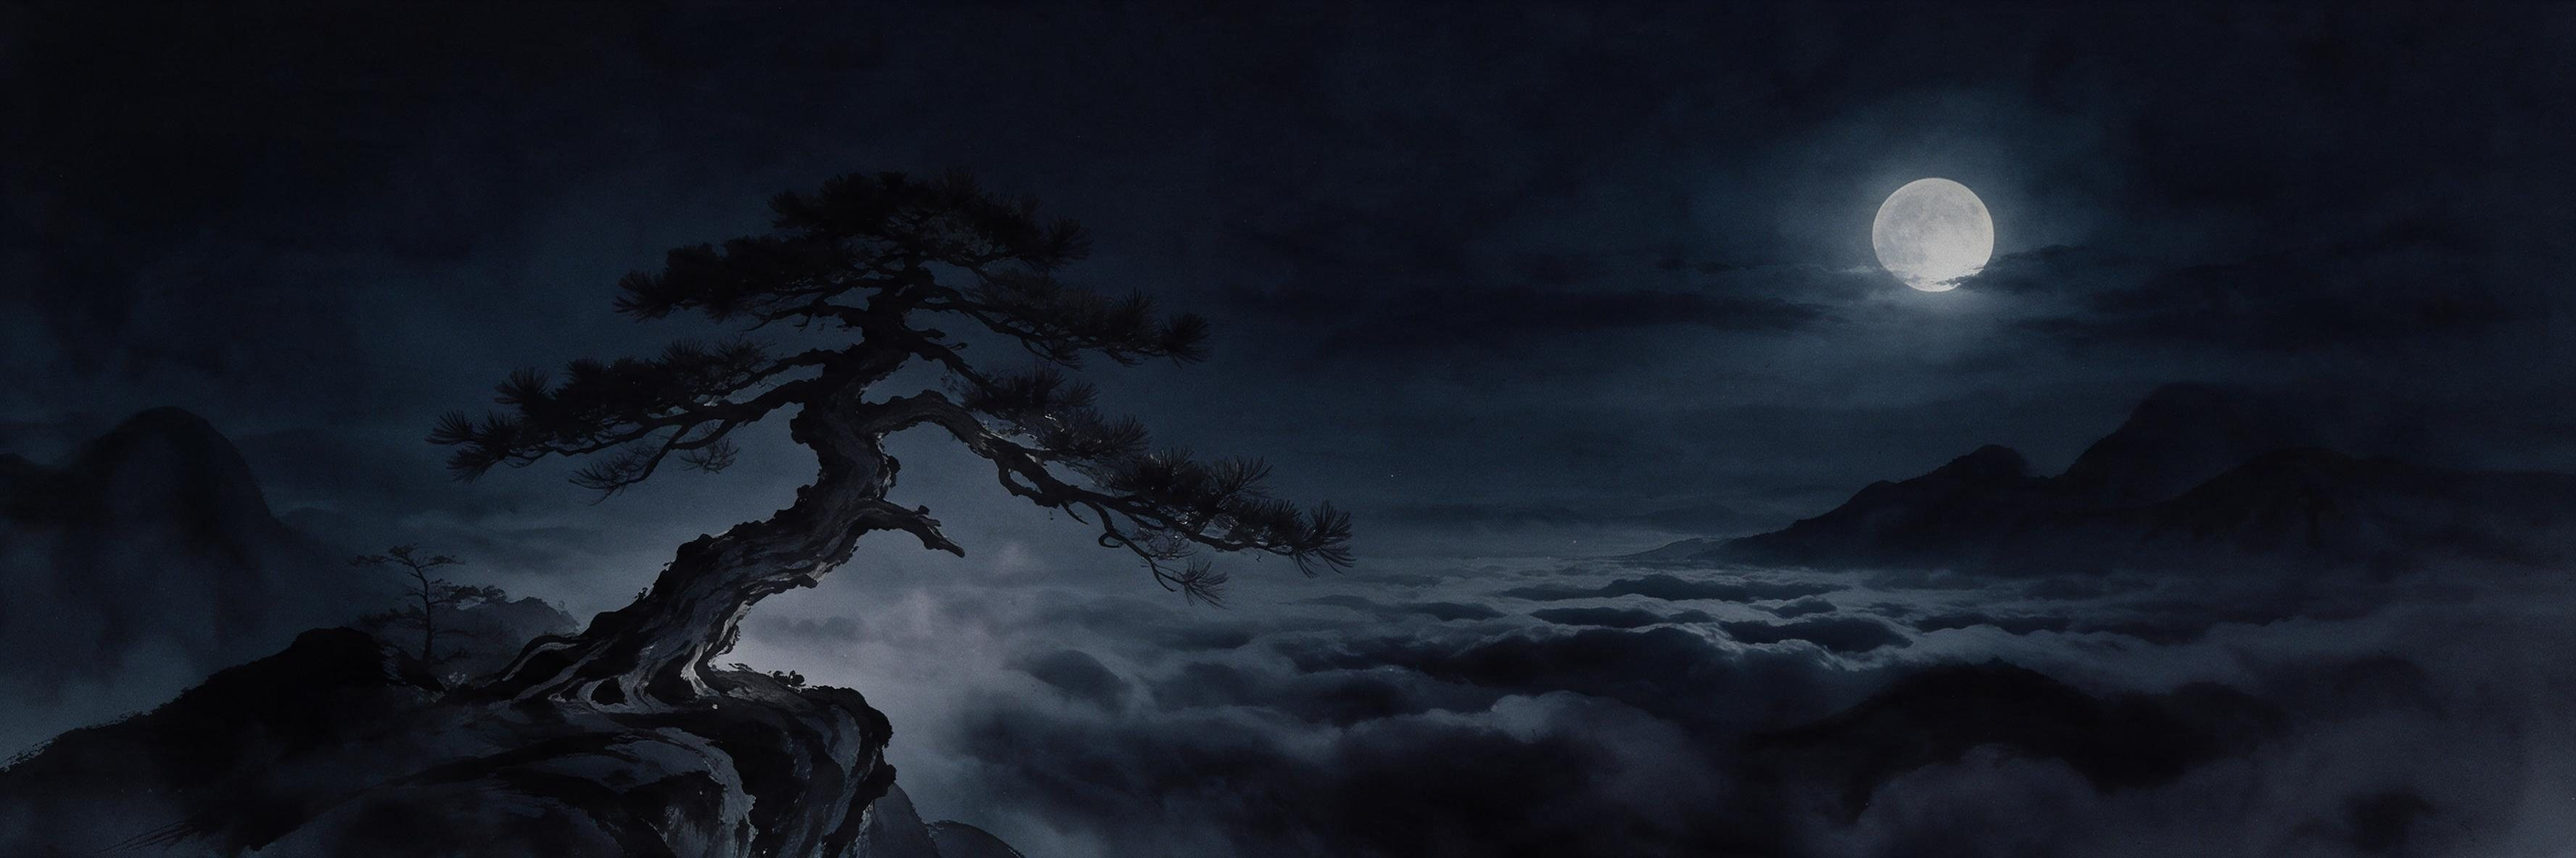
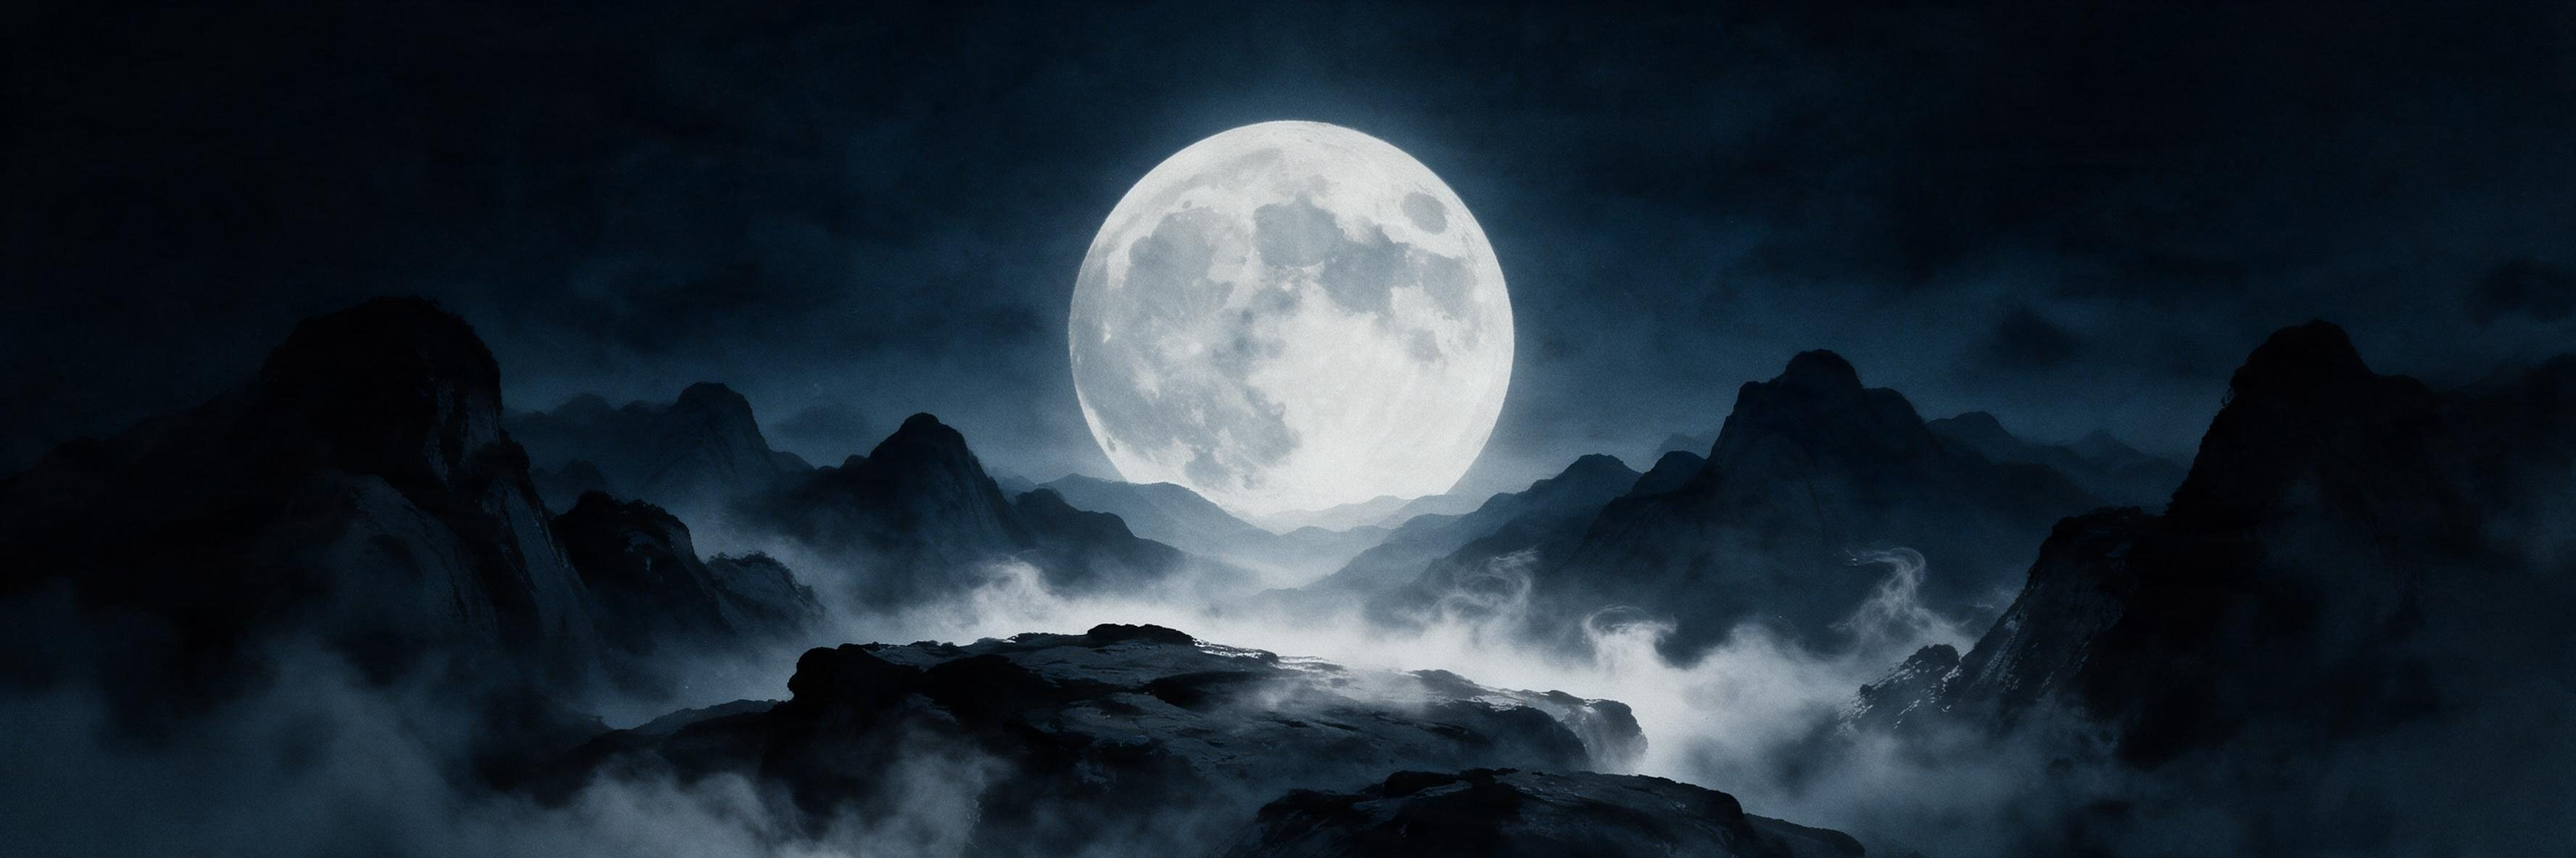
docs(ui): 原型书册藏经、武学类别图标、修炼月夜底图与破境卡

diff --git a/docs/design/ui-overhaul-prototype.html b/docs/design/ui-overhaul-prototype.html
@@ -740,19 +740,19 @@ button { font: inherit; color: inherit; }
 .wform .fx::before { content: '◈ '; font-size: 10px; }
 .wform.locked .fx { color: oklch(0.55 0.05 215); }
 .wform { grid-template-columns: 200px minmax(0, 1fr) 64px; }
-/* 藏经：AI 卷轴图陈列（黑底已处理成透明），按品质换卷 */
-.scrolls { display: grid; grid-template-columns: repeat(auto-fill, minmax(230px, 1fr)); gap: 6px 18px; margin-bottom: 18px; }
-.scroll-i { position: relative; border: 0; cursor: pointer; aspect-ratio: 4 / 1; padding: 0; background: url('../../code/public/art/scroll-q1.png') center / contain no-repeat;
-  display: grid; place-items: center; font-family: var(--serif); font-size: 17px; letter-spacing: 0.25em; color: oklch(0.25 0.02 60);
-  filter: brightness(0.82); transition: transform .25s var(--ease), filter .25s; }
-.scroll-i.q2 { background-image: url('../../code/public/art/scroll-q2.png'); color: oklch(0.22 0.03 220); }
-.scroll-i.q3 { background-image: url('../../code/public/art/scroll-q3.png'); color: oklch(0.2 0.03 60); }
-.scroll-i small { position: absolute; top: 100%; margin-top: 2px; font-family: var(--body, var(--sans)); font-size: 11px; letter-spacing: 0.1em; color: var(--faint); }
-.scroll-i .t { transform: translateY(-1px); }
-.scrolls { row-gap: 26px; }
-.scroll-i:hover { filter: brightness(0.95); transform: translateY(-2px); }
-.scroll-i[aria-current="true"] { filter: brightness(1.05) drop-shadow(0 0 10px oklch(0.78 0.13 78 / 0.35)); transform: translateY(-3px); }
-.scroll-i .on { position: absolute; top: 12%; right: 16%; font-size: 10.5px; letter-spacing: 0; padding: 1px 5px; border-radius: 3px; background: oklch(0.45 0.14 30); color: oklch(0.95 0.02 80); font-family: var(--body, var(--sans)); }
+/* 藏经：AI 线装书册封面陈列（黑底已处理成透明），书名竖写在题签上；按品质换封面 */
+.scrolls { display: flex; flex-wrap: wrap; gap: 26px 22px; margin-bottom: 22px; padding: 6px 4px 0; }
+.scroll-i { position: relative; width: 112px; aspect-ratio: 0.65; border: 0; padding: 0; cursor: pointer;
+  background: url('../../code/public/art/book-q1.png') center / 100% 100% no-repeat; filter: brightness(0.85) drop-shadow(0 8px 14px oklch(0.05 0.01 262 / 0.6));
+  transition: transform .25s var(--ease), filter .25s; }
+.scroll-i.q2 { background-image: url('../../code/public/art/book-q2.png'); }
+.scroll-i.q3 { background-image: url('../../code/public/art/book-q3.png'); }
+.scroll-i .t { position: absolute; left: 21%; top: 16%; width: 15%; height: 44%; display: grid; place-items: center;
+  writing-mode: vertical-rl; font-family: var(--serif); font-size: 13.5px; letter-spacing: 0.15em; color: oklch(0.2 0.02 60); white-space: nowrap; }
+.scroll-i small { position: absolute; top: 100%; left: 0; right: 0; margin-top: 6px; text-align: center; font-size: 11px; letter-spacing: 0.1em; color: var(--faint); }
+.scroll-i:hover { transform: translateY(-3px); filter: brightness(0.95) drop-shadow(0 10px 16px oklch(0.05 0.01 262 / 0.6)); }
+.scroll-i[aria-current="true"] { transform: translateY(-6px); filter: brightness(1.05) drop-shadow(0 0 12px oklch(0.78 0.13 78 / 0.45)); }
+.scroll-i .on { position: absolute; top: -8px; right: -6px; font-size: 10.5px; padding: 1px 5px; border-radius: 3px; background: oklch(0.45 0.14 30); color: oklch(0.95 0.02 80); }
 .ngd-meta { display: flex; gap: 18px; flex-wrap: wrap; color: var(--faint); font-size: 12.5px; margin: -4px 0 12px; }
 .ngd-meta b { color: var(--ink); font-weight: 600; }
 /* 战报：回合抬头 + 成段叙述 */
@@ -774,6 +774,19 @@ button { font: inherit; color: inherit; }
 .settings .st-opts button i { width: 18px; height: 18px; border-radius: 5px; flex: none; }
 .settings .st-opts button[aria-pressed="true"] { background: oklch(0.78 0.13 78 / 0.1); color: var(--ink); box-shadow: inset 0 0 0 1px oklch(0.78 0.13 78 / 0.45); }
 .settings .st-note { font-size: 12px; color: var(--faint); }
+
+/* 破境卡：条件竖排、按钮占满 */
+.break-card .cond { display: grid; gap: 8px; justify-content: stretch; }
+.break-card .cond span { justify-content: flex-start; }
+.break-card .cond b { margin-left: auto; }
+.break-card .acu-ledger { justify-content: space-between; margin: 14px 0 16px; padding-top: 12px; border-top: 1px solid var(--hair); }
+.break-card .break-btn { width: 100%; }
+.cult aside .card + .card { margin-top: 14px; }
+/* 武学类别图标：AI 简笔图做遮罩，颜色跟随文字 */
+.cat-ico { display: inline-block; width: 1.15em; height: 1.15em; vertical-align: -0.2em; background: currentColor;
+  -webkit-mask: var(--ico) center / contain no-repeat; mask: var(--ico) center / contain no-repeat; }
+.cats .cat-ico { margin-right: 4px; }
+.book .bi { width: 22px; height: 22px; color: oklch(0.85 0.03 85 / 0.8); }
 
 /* ═══════ 手机宽度 ═══════ */
 .mob-top, .tabbar { display: none; }
@@ -916,11 +929,10 @@ button { font: inherit; color: inherit; }
     <div class="stage">
       <!-- ─────────── 修炼 ─────────── -->
       <section class="page on" id="p-cultivate">
-        <div class="page-art" style="--art:url('../../code/public/art/cultivate.jpg')"></div>
+        <div class="page-art js-cult-art" style="--art:url('../../code/public/art/cultivate.jpg'); background-size: auto 100%"></div>
         <header class="page-head">
           <div>
             <h1>运转周天</h1>
-            <div class="sub">初窥门径 → <b>小有所成</b></div>
           </div>
         </header>
 
@@ -953,13 +965,6 @@ button { font: inherit; color: inherit; }
             <div class="incense" data-tip-html="本段 <b>1,034,800</b> / 1,668,000 内力<br><span class='l'>三段周天逐段翻倍，突破共需 2,780,000</span>">
               <div class="ash js-ash"></div><div class="stick js-stick"></div><span class="tick" style="left:33.33%"></span><span class="tick" style="left:66.67%"></span><div class="smoke js-smoke"></div><div class="ember js-ember"></div>
             </div>
-
-            <div class="acu-ledger">
-              <span>窍穴<b>1/4</b></span><span>经脉<b>0/2</b></span><span>修炼加成<b class="gold">+4%</b></span>
-            </div>
-
-            <div class="cond js-cond"></div>
-            <button class="break-btn js-break" disabled>周天运转中 · 约 21 分钟后可突破</button>
           </div>
 
           <aside class="a-only">
@@ -968,7 +973,16 @@ button { font: inherit; color: inherit; }
               <div class="js-attrs"></div>
               <div class="attr-foot">内功 惊雷诀 · 第 3 重 · <a href="#" data-go="neigong">详情</a></div>
             </div>
-            <!-- 有伤才出现，排在身手下方，身手位置不随伤势变化 -->
+            <!-- 破境：突破条件、窍穴经脉与突破按钮，填满身手下方 -->
+            <div class="card break-card">
+              <div class="head"><span class="serif">破境</span><small>初窥门径 → 小有所成</small></div>
+              <div class="cond js-cond"></div>
+              <div class="acu-ledger">
+                <span>窍穴<b>1/4</b></span><span>经脉<b>0/2</b></span><span>修炼加成<b class="gold">+4%</b></span>
+              </div>
+              <button class="break-btn js-break" disabled>周天运转中 · 约 21 分钟后可突破</button>
+            </div>
+            <!-- 有伤才出现，排在最下方，身手与破境都不移位 -->
             <div class="card wounds js-wounds" hidden></div>
           </aside>
         </div>
@@ -1121,7 +1135,7 @@ button { font: inherit; color: inherit; }
               <div class="head"><span class="serif">贡献商店</span><small>持有 <b class="gold">320</b> 贡献</small></div>
               <div class="rows">
                 <div class="row-i"><div class="t"><span class="serif">苍崖剑诀</span><span class="qtag q3">绝学</span></div><div class="d">剑法 · 本门练得快两成</div><div class="a"><span class="buy"><button class="btn2" disabled>450 贡献</button><small>还差 130</small></span></div></div>
-                <div class="row-i"><div class="t"><span class="serif">云台心法</span><span class="qtag q3">绝学内功</span></div><div class="d">五级台阶</div><div class="a"><span class="buy"><button class="btn2" disabled>600 贡献</button><small>还差 280</small></span></div></div>
+                <div class="row-i"><div class="t"><span class="serif">云台心法</span><span class="qtag q3">绝学内功</span></div><div class="d">最高可至归真</div><div class="a"><span class="buy"><button class="btn2" disabled>600 贡献</button><small>还差 280</small></span></div></div>
                 <div class="row-i lock"><div class="t"><span class="serif">落星剑</span><span class="qtag q3">绝学 · 独门</span></div><div class="d">蓄势，越打越快</div><div class="a"><span class="price">境界 4 可换</span></div></div>
                 <div class="row-i"><div class="t"><span class="serif">招式秘籍 · 苍崖剑诀第四式</span></div><div class="d">领悟第四式所需</div><div class="a"><span class="buy"><button class="btn2">300 贡献</button></span></div></div>
               </div>
@@ -1155,7 +1169,7 @@ button { font: inherit; color: inherit; }
           <div class="rows">
             <div class="row-i"><div class="t"><span class="serif">行者棍</span><span class="qtag q1">寻常</span></div><div class="d">棍法 · 特效回气</div><div class="a"><span class="buy"><button class="btn2">1,800 两</button></span></div></div>
             <div class="row-i"><div class="t"><span class="serif">招式秘籍 · 流云剑第三式</span></div><div class="d">领悟第三式所需</div><div class="a"><span class="buy"><button class="btn2" disabled>4,500 两</button><small>还差 1,080</small></span></div></div>
-            <div class="row-i lock"><div class="t"><span class="serif">雷鸣剑经</span><span class="qtag q2">上乘内功</span></div><div class="d">惊雷一路 · 四级台阶</div><div class="a"><span class="price">境界 3 上架</span></div></div>
+            <div class="row-i lock"><div class="t"><span class="serif">雷鸣剑经</span><span class="qtag q2">上乘内功</span></div><div class="d">惊雷一路 · 最高可至化境</div><div class="a"><span class="price">境界 3 上架</span></div></div>
             <div class="row-i done"><div class="t"><span class="serif">流云剑</span><span class="qtag q1">寻常</span></div><div class="d">剑法 · 特效必暴</div><div class="a"><span class="price">已有</span></div></div>
           </div>
         </div>
@@ -1611,6 +1625,8 @@ const FX = {
   duanshui: ['为对方附毒 1 层', '', '', '', '附毒 3 层'],
   xiuli: ['为对方附毒 1 层', '', '附毒 2 层'],
 };
+const ICO = { 剑法: 'jian', 刀法: 'dao', 拳掌: 'quan', 暗器: 'anqi', 棍法: 'gun' };
+const ico = c => ICO[c] ? `<i class="cat-ico" style="--ico:url('../../code/public/art/icon-${ICO[c]}.png')"></i>` : '';
 const QP = { 1: { q: '寻常', cost: 25, cd: 2, m0: 130, th: [4, 10, 25] }, 2: { q: '上乘', cost: 40, cd: 3, m0: 150, th: [5, 12, 28] }, 3: { q: '绝学', cost: 55, cd: 4, m0: 145, th: [6, 15, 32] } };
 const TIER4 = ['生疏', '熟练', '精通', '圆满'];
 const wx = { equipped: ['liuyun'], cur: 'liuyun', cat: '全部', slots: 2 };
@@ -1625,15 +1641,15 @@ function renderSlots() {
 }
 function renderShelf() {
   const cats = ['全部', ...new Set(Object.values(WX).map(d => d.cat))];
-  $('.js-cats').innerHTML = cats.map(c => `<button data-cat="${c}" aria-pressed="${c === wx.cat}">${c}<small>${c === '全部' ? Object.keys(WX).length : Object.values(WX).filter(d => d.cat === c).length}</small></button>`).join('');
+  $('.js-cats').innerHTML = cats.map(c => `<button data-cat="${c}" aria-pressed="${c === wx.cat}">${ico(c)}${c}<small>${c === '全部' ? Object.keys(WX).length : Object.values(WX).filter(d => d.cat === c).length}</small></button>`).join('');
   $('.js-shelf').innerHTML = Object.entries(WX).filter(([, d]) => wx.cat === '全部' || d.cat === wx.cat).sort((a, b) => b[1].q - a[1].q).map(([id, d]) =>
-    `<button class="book q${d.q}" data-wx="${id}" aria-current="${id === wx.cur}" title="${d.n} · ${QP[d.q].q}${d.cat}">${wx.equipped.includes(id) ? '<span class="eq">装</span>' : ''}<span class="bt">${d.n}</span><span class="bq">${QP[d.q].q} · ${d.cat}</span></button>`).join('');
+    `<button class="book q${d.q}" data-wx="${id}" aria-current="${id === wx.cur}" title="${d.n} · ${QP[d.q].q}${d.cat}">${wx.equipped.includes(id) ? '<span class="eq">装</span>' : ''}<span class="bt">${d.n}</span><span class="bi">${ico(d.cat)}</span></button>`).join('');
 }
 function renderWxDetail() {
   const d = WX[wx.cur], p = QP[d.q], on = wx.equipped.includes(wx.cur), full = wx.equipped.length >= wx.slots;
     let h = `<div class="head"><span style="display:flex;gap:8px;align-items:center;flex-wrap:wrap"><span class="serif big">${d.n}</span><span class="qtag q${d.q}">${p.q}</span>${d.res ? '<span class="qtag res" data-tip="与所修内功同为惊雷一路，招式伤害 ×1.1">共鸣</span>' : ''}</span>
-    <button class="${on ? 'btn2 quiet' : 'btn2'}" data-equip="${wx.cur}" ${!on && full ? 'disabled' : ''}>${on ? '卸下' : full ? '装配槽已满' : '装上'}</button></div>
-    <div class="params"><span>${d.cat}</span><span>真气消耗 <b>${p.cost}</b></span><span>冷却 <b>${p.cd}</b> 回合</span>
+    <button class="${on ? 'btn2 quiet' : 'btn2'}" data-equip="${wx.cur}" ${!on && full ? 'disabled' : ''}>${on ? '卸下' : full ? '装配槽已满' : '装配'}</button></div>
+    <div class="params"><span>${ico(d.cat)} ${d.cat}</span><span>真气消耗 <b>${p.cost}</b></span><span>冷却 <b>${p.cd}</b> 回合</span>
     <span data-tip="冷却已好、真气够用时，每回合有三成机会出这一门（与其它就绪的武学随机取一）">触发几率 <b>30%</b></span><span>特效 <b>${d.eff}</b></span></div>`;
   d.forms.forEach(([name, tier, casts, gate], k) => {
     const mul = Math.round((p.m0 / 100 + k * 0.12) * (1 + tier * 0.05) * (d.res ? 1.1 : 1) * 100);
@@ -1674,7 +1690,7 @@ const NG = {
   zhenyue:  { n: '镇岳功', q: 1, lu: '镇岳', mech: ['开战获得 <b>30% 气血</b>护盾', '受击反伤 <b>25%</b>', '防御 <b>+20%</b>'] },
   shigu:    { n: '蚀骨心法', q: 1, lu: '蚀骨', mech: ['开战为对方<b>施毒 2 层</b>，每次命中 <b>+1 层</b>', '毒伤 = 攻击 × <b>12%</b> × 层数，<b>无视防御</b>', '层数上限 <b>8</b>，满层触发<b>毒爆 50%</b>', '代价：普攻伤害 <b>×0.85</b>'] },
 };
-const NGQ = { 1: ['寻常', '第 6 重 · 大成', '1.0'], 2: ['上乘', '第 20 重 · 化境', '1.1'], 3: ['绝学', '第 40 重 · 归真', '1.2'] };
+const NGQ = { 1: ['寻常', '大成（第 6 重）', '1.0'], 2: ['上乘', '化境（第 20 重）', '1.1'], 3: ['绝学', '归真（第 40 重）', '1.2'] };
 const ng = { cur: 'leiming', cat: '全部' };
 function renderNg() {
   const cats = ['全部', '惊雷', '镇岳', '蚀骨'];
@@ -1684,7 +1700,7 @@ function renderNg() {
   const d = NG[ng.cur], q = NGQ[d.q];
   const act = d.cur ? '<span class="price ok">主修中</span>' : d.lu === '惊雷' ? '<button class="btn2">转修 · 保留八成功力</button>' : '<button class="btn2 quiet">散功重修</button>';
   $('.js-ngd').innerHTML = `<div class="head"><span style="display:flex;gap:8px;align-items:center"><span class="serif big">${d.n}</span><span class="qtag q${d.q}">${q[0]}</span></span>${act}</div>
-    <div class="ngd-meta"><span>台阶止于 <b>${q[1]}</b></span><span data-tip="真气上限的倍率">气海 <b>×${q[2]}</b></span></div>
+    <div class="ngd-meta"><span>最高可至 <b>${q[1]}</b></span><span data-tip="真气上限的倍率">气海 <b>×${q[2]}</b></span></div>
     <ul class="mech">${d.mech.map(m => `<li>${m}</li>`).join('')}<li>气海 <b>×${q[2]}</b>，每精进一重真气上限 <b>+1</b></li></ul>`;
 }
 document.addEventListener('click', e => {
@@ -1703,6 +1719,20 @@ $('#settings').addEventListener('click', e => {
   $$('#settings [data-card]').forEach(x => x.setAttribute('aria-pressed', x === b));
 });
 document.addEventListener('click', () => { $('#settings').hidden = true; });
+
+
+/* 修炼底图：宽幅图的月亮（图宽 50% 处）对齐到人物头顶，两张图接成一幅 */
+function alignCultArt() {
+  const art = $('.js-cult-art'), sc = $('#scene');
+  if (!art || !sc || !$('#p-cultivate').classList.contains('on')) return;
+  const a = art.getBoundingClientRect(), r = sc.getBoundingClientRect();
+  const imgW = a.height * 3;                       // 图是 3:1，按视口高铺
+  const x = (r.left + r.width / 2) - a.left - imgW / 2;
+  art.style.backgroundPosition = `${x}px ${Math.round(r.top + r.height * 0.22 - a.height * 0.36)}px`;
+}
+addEventListener('resize', alignCultArt);
+document.addEventListener('click', () => setTimeout(alignCultArt, 30));
+setTimeout(alignCultArt, 50);
 
 /* ───── 原型控制 ───── */
 const FONTS = {

diff --git a/changelog.d/feature-ui-overhaul.md b/changelog.d/feature-ui-overhaul.md
@@ -13,3 +13,4 @@
 - **原型第二轮修订**：出关、战败、归隐改成与突破同一种整屏演出（按事件换底色），不再是表格；所有页面底图统一放在页头右上同一位置，修炼页补一张崖松云海图、人物场景放大；突破「新开」改「解锁」；内功页删去路数/悟性/火候等说明，「路数」卡改名「心法要诀」，真气加一条气海刻度（标出每招耗气与下一式所需），三块改为上二下一；品质标签分出寻常素、上乘青、绝学金框；武学页改为装配槽 + 按类型筛选的线装书脊陈列 + 详情（可切换、装上/卸下、招式名、触发几率、熟练四档）；书肆移到新页签「市集」；门派页删去说明文字；所有商店统一为「价格写在按钮上、买不起时下方写还差多少」；卡片底色加四种可切换（冷灰、墨青、檀木、漆底描金）
 - **原型第三轮修订**：玩家可见的「归隐」统一改称「转世」（入口按钮、演出、声望阁），演出改写为「此生至此 / 随魂而去 / 随身而散」；出关、战败删去多余说明；底图改为固定铺在整个舞台背后、上浓下淡，对阵区去掉底框直接长在画上，修炼人物图改用滤色混合融进底图；武学熟练度改为「生疏 / 熟练 / 精通 / 圆满」四节点线（进度收进悬停），「耗气」改「真气消耗」，每式可带附加效果；内功页加卷轴式「藏经」陈列，可按路数筛选、点开看心法要诀并转修；战报改为回合抬头加成段叙述，普攻、暴击、闪避、敌方出手、每式武学、路数爆发各有预设句式；惊雷诀暴击数值按代码校正
 - **原型第四轮修订**：战报结尾改为「获得：银两 N」、回合节奏再放慢到约 2.7 秒；内功藏经换成莉刻生成的三种卷轴（素纸、青绢、金锦）；真气移到修炼页身手（气血下方），内功页去掉真气卡，心法要诀里写「气海 ×N，每精进一重真气上限 +1」，藏经详情改写「台阶止于第几重」与「气海」；卡片底色收进侧栏齿轮的设置面板（默认冷灰）；「市集」改回设定里已有的「书肆」
+- **原型第五轮修订**：内功藏经改为莉刻生成的线装书册封面（靛布、青绢、金锦），书名竖写在题签上；去掉「台阶」一词，改写「最高可至 化境（第 20 重）」；武学「装上」改「装配」，剑法、刀法、拳掌、暗器、棍法各配一枚 AI 简笔图标（筛选、书脊、详情三处）；修炼页底图改为以人物图背景向两侧扩展的宽幅月夜山景，月亮对齐人物头顶；突破条件、窍穴经脉与突破按钮收进身手下方的「破境」卡，伤势卡出现时排在最下
